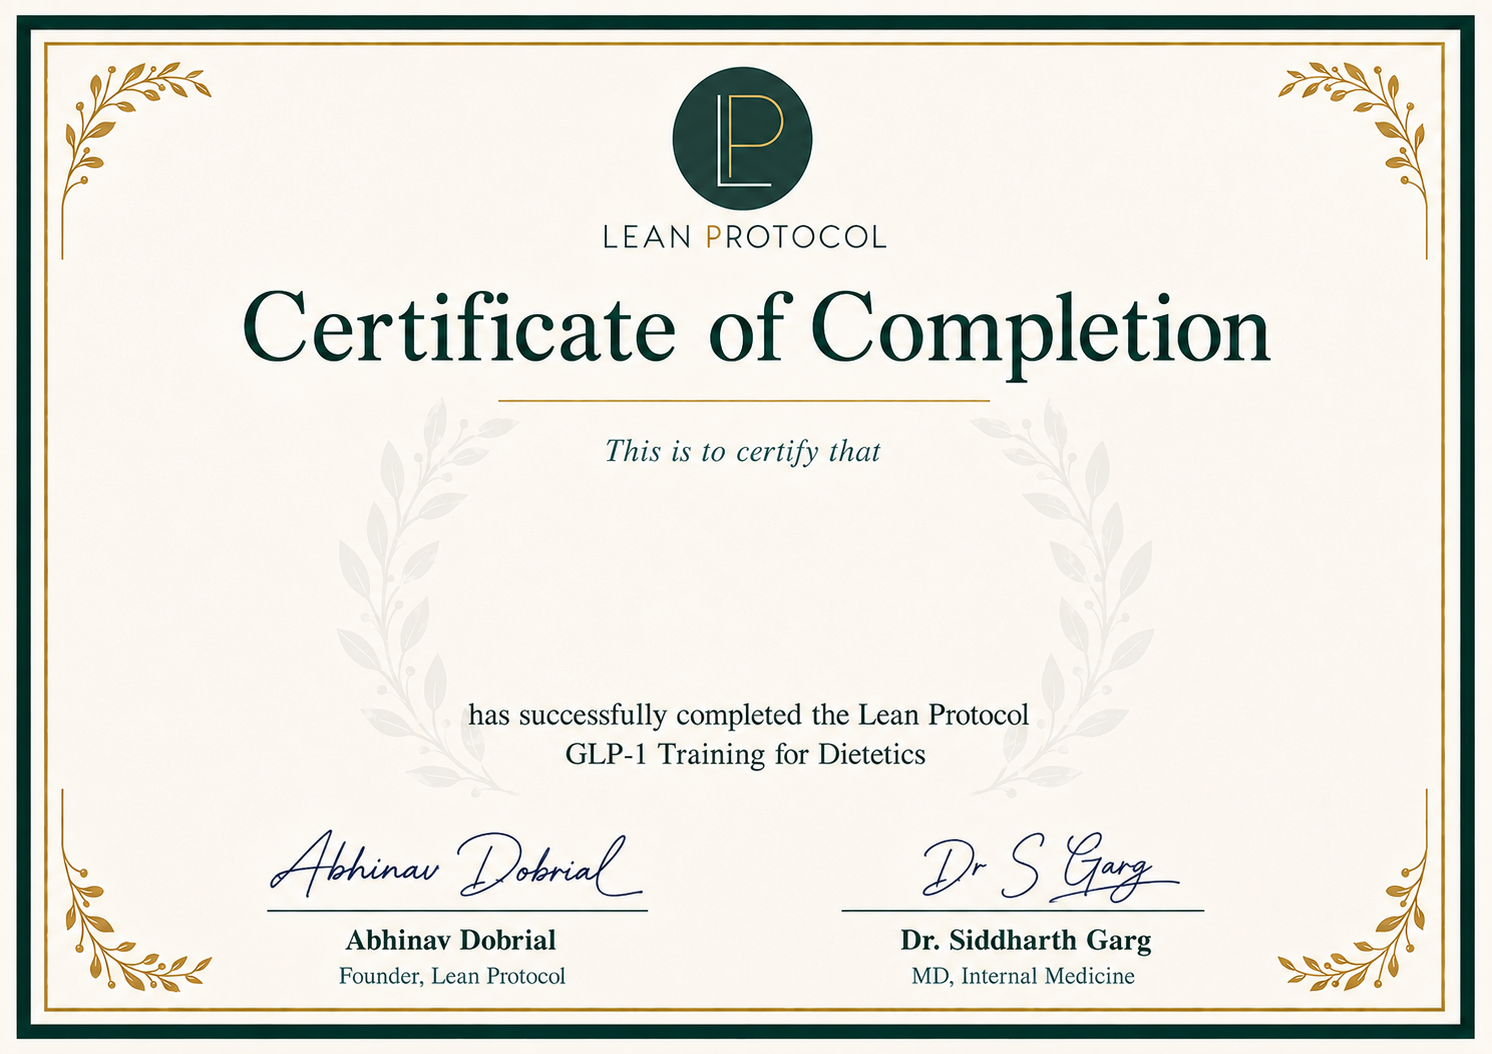
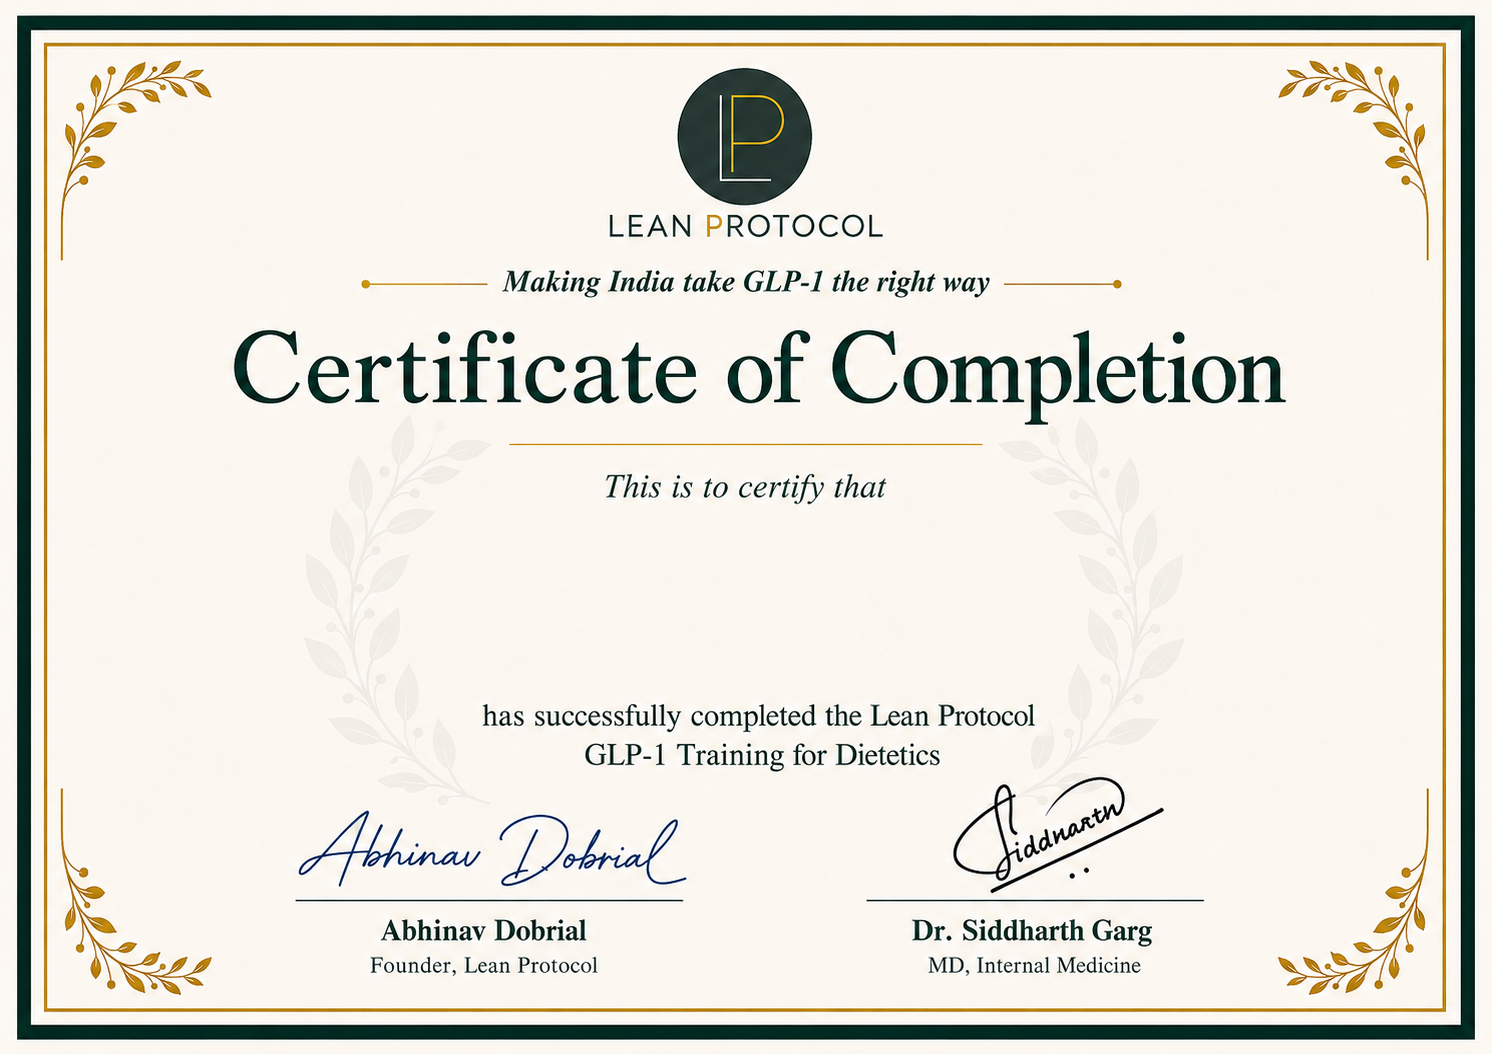
workshop: reopen for the 23 Aug session
Two questions added on the glucose-lowering mechanism and gallbladder
risk in rapid weight loss, taking the bank to 22. New certificate
background with the tagline; name and date moved down into the clear
band, which the tagline shifted.

diff --git a/content/workshop-test.ts b/content/workshop-test.ts
@@ -288,4 +288,30 @@ export const QUESTIONS: Question[] = [
     rationale:
       "The effect is on how much is eaten, not on how well nutrients are absorbed. A sustained drop in total intake risks shortfalls in protein, energy and micronutrients such as iron, B12 and calcium. Meals should therefore be planned for nutrient density rather than volume, since the volume tolerated is now smaller.",
   },
+  {
+    id: 22,
+    q: "Which combination BEST explains the glucose-lowering effect of GLP-1 receptor agonism?",
+    options: [
+      "Increased glucagon, increased hepatic glucose production, decreased insulin",
+      "Increased insulin, decreased glucagon, decreased hepatic glucose output",
+      "Decreased insulin, increased glucagon, increased gastric emptying",
+      "Increased glucagon, decreased insulin, increased gastric emptying",
+    ],
+    answer: 1,
+    rationale:
+      "GLP-1 receptor activation stimulates insulin secretion in a glucose-dependent manner and suppresses glucagon release from pancreatic alpha cells. Less glucagon means less hepatic glucose output, so all three effects pull in the same direction. The other options each invert at least one of them; note also that GLP-1 slows gastric emptying rather than increasing it.",
+  },
+  {
+    id: 23,
+    q: "Which patient may require particular clinical attention when considering GLP-1-based weight-loss therapy?",
+    options: [
+      "A patient with a history of nephrolithiasis but no metabolic disease",
+      "A patient with previous gallbladder disease undergoing rapid weight loss",
+      "A patient with mild seasonal allergies",
+      "A patient with iron-deficiency anaemia receiving oral iron",
+    ],
+    answer: 1,
+    rationale:
+      "Rapid weight loss of any cause increases biliary cholesterol saturation and reduces gallbladder emptying, which raises the risk of gallstones. A patient with previous gallbladder disease is therefore the one warranting closer attention, and the treating doctor may prefer a steadier rate of loss with adequate protein and some dietary fat. Kidney stones, seasonal allergies and iron deficiency are not specific concerns for this drug class.",
+  },
 ];

diff --git a/app/workshop-test/page.tsx b/app/workshop-test/page.tsx
@@ -1,4 +1,3 @@
-import { notFound } from "next/navigation";
 // app/workshop-test/page.tsx
 // Dietitian onboarding assessment. Everything runs as one client component
 // with internal states, so nothing navigates mid-test and no answers can be
@@ -17,7 +16,5 @@ export const metadata: Metadata = {
 };
 
 export default function WorkshopTestPage() {
-  // Assessment closed after the 16 Aug 2026 workshop.
-  // To reopen: delete the notFound() call and the import above.
-  notFound();
+  return <WorkshopClient />;
 }

diff --git a/components/workshop/certificate.tsx b/components/workshop/certificate.tsx
@@ -16,8 +16,8 @@
 
 import { useEffect, useRef, useState } from "react";
 
-const NAME_Y = 0.55; // baseline, in the clear space inside the wreath
-const DATE_Y = 0.62; // small date under the name
+const NAME_Y = 0.57; // baseline, in the clear space inside the wreath
+const DATE_Y = 0.64; // small date under the name
 const SIGN_BOTTOM_Y = 0.845; // just above the printed signature rule
 const NAME_MAX_WIDTH = 0.66; // of canvas width
 const DARK = "#193231";
